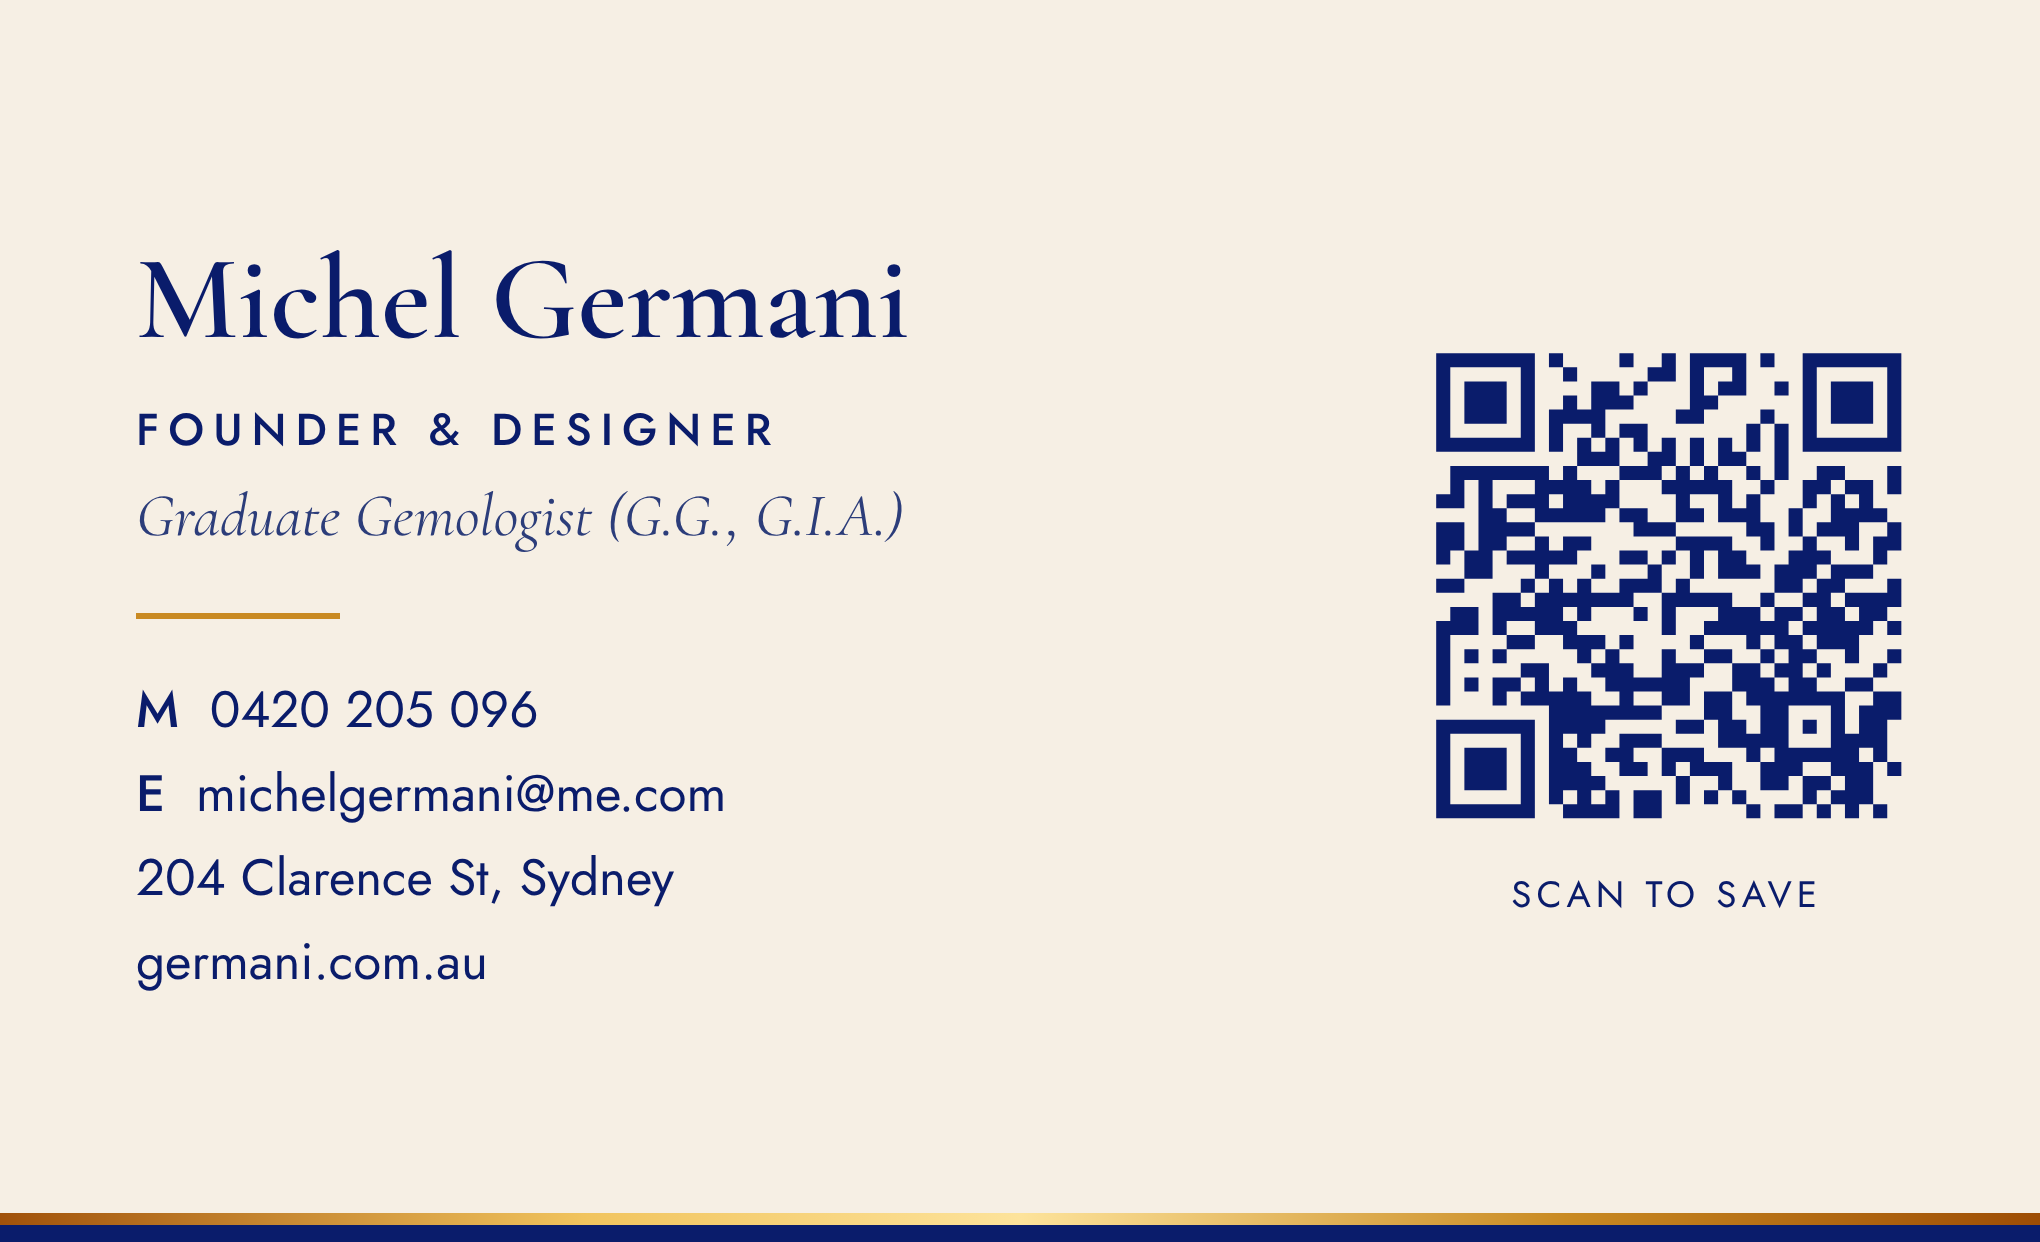
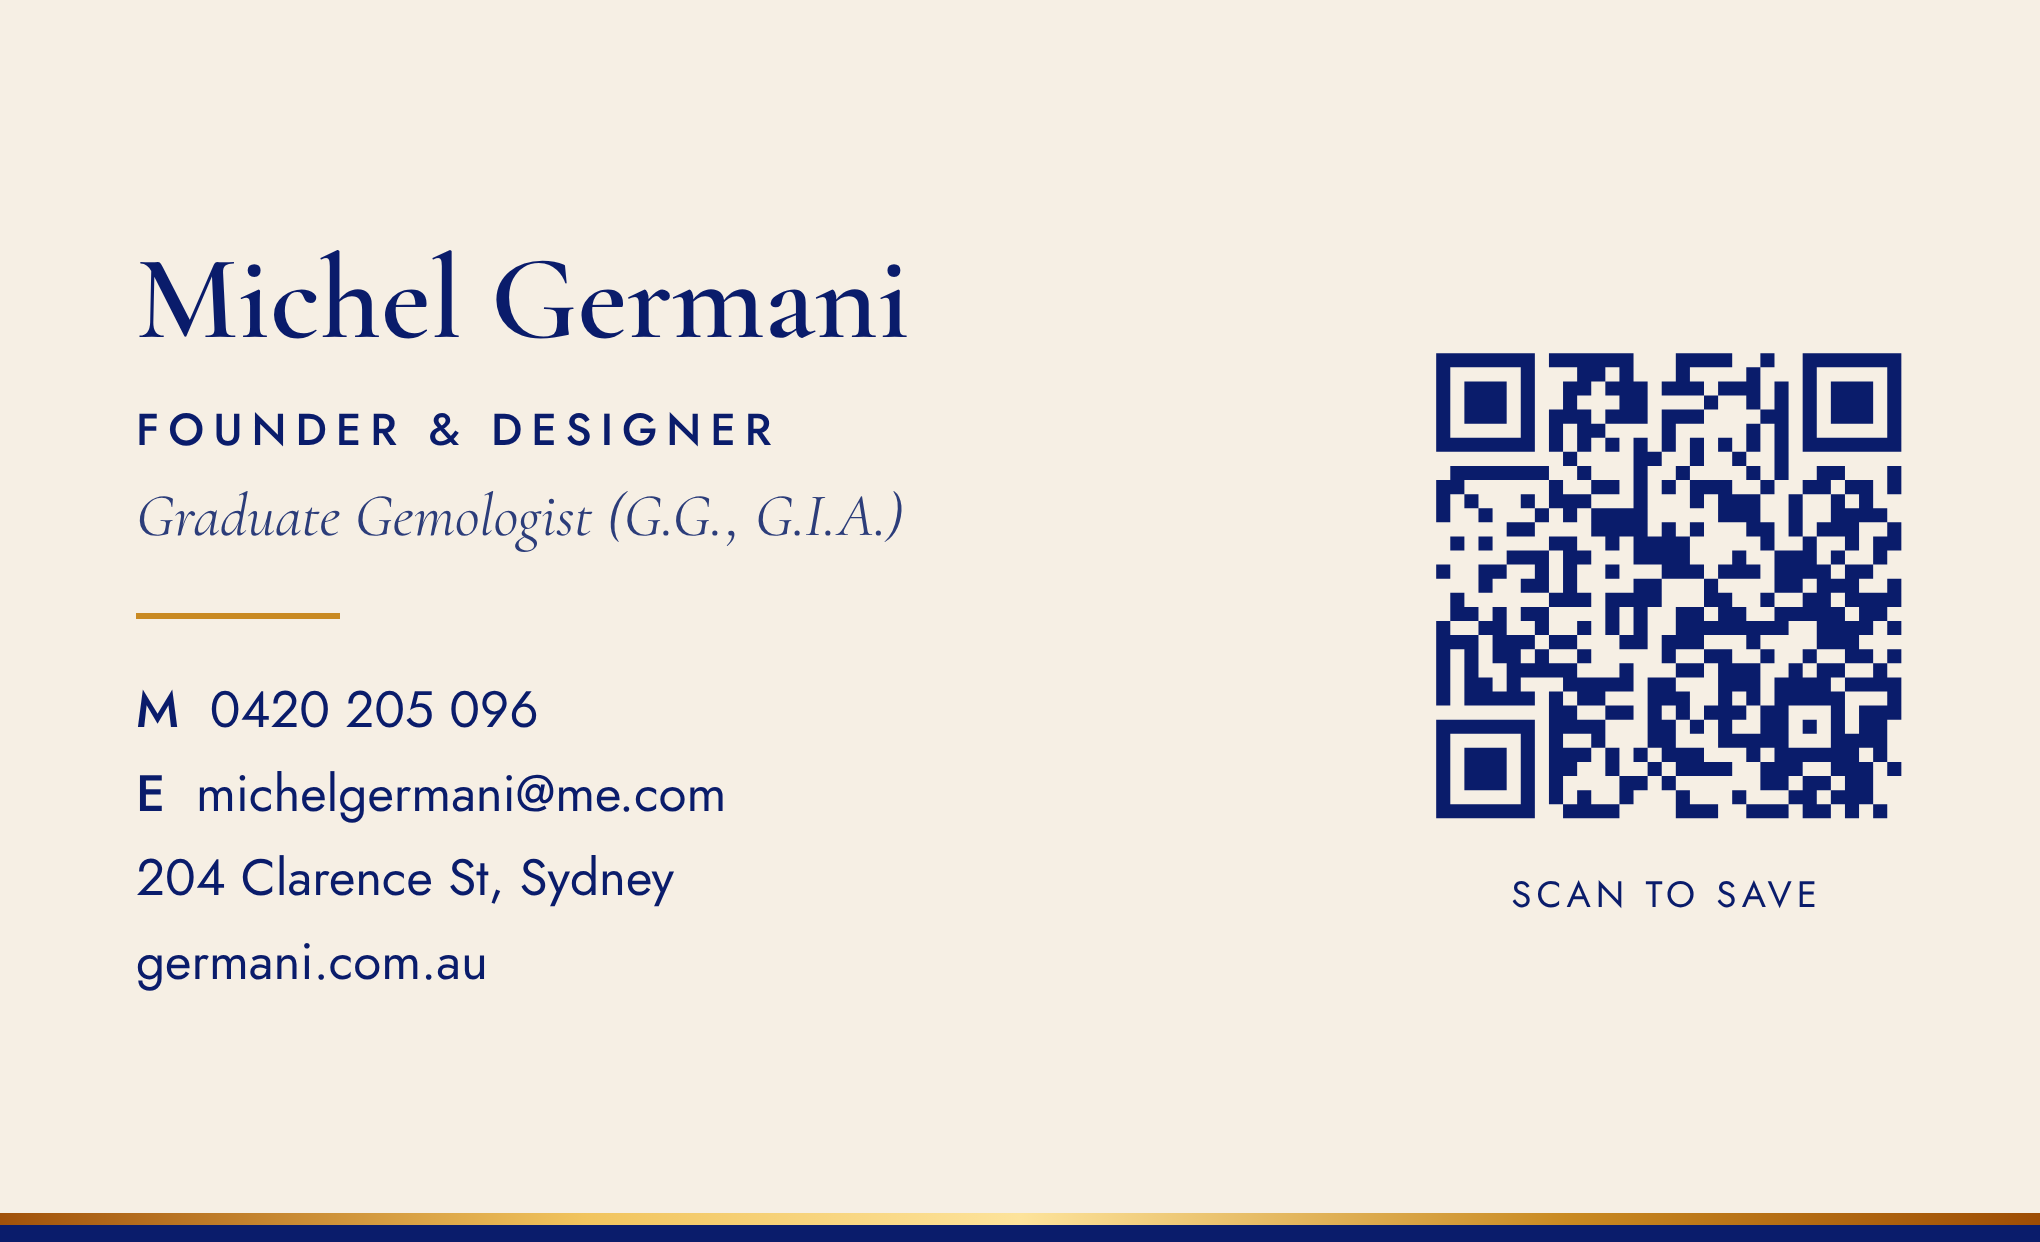
Move to Vercel: card and QR point to germani-jewellery.vercel.app, form opens email
The appointment form no longer relies on Netlify Forms; it opens the
visitor's email app with the request addressed to Michel.

Claude-Session: https://claude.ai/code/session_01YErHAkG1NViqXgVA9nc83o

Changed region(s): [[0.6794, 0.2754, 0.9265, 0.6731]]

diff --git a/michel.html b/michel.html
@@ -8,7 +8,7 @@
 <meta name="description" content="Michel Germani, Founder &amp; Designer, Germani Jewellery Academy. Save my contact details.">
 <meta property="og:title" content="Michel Germani | Germani Jewellery Academy">
 <meta property="og:description" content="Founder &amp; Designer, Germani Jewellery Academy. Tap to save my contact.">
-<meta property="og:image" content="https://germani-jewellery.netlify.app/cards/img/michel.jpg">
+<meta property="og:image" content="https://germani-jewellery.vercel.app/cards/img/michel.jpg">
 <meta name="theme-color" content="#0a1c6b">
 <link rel="icon" href="/favicon.svg" type="image/svg+xml">
 <link rel="preconnect" href="https://fonts.googleapis.com">
@@ -66,19 +66,19 @@ footer a{color:var(--navy)}
     <a class="btn btn-save" href="/michel.vcf" download="Michel-Germani.vcf"><svg class="i" viewBox="0 0 24 24" aria-hidden="true"><path d="M12 3v12m0 0-4-4m4 4 4-4"/><path d="M5 17v3h14v-3"/></svg> Save Contact</a>
     <button class="btn btn-share" id="share" type="button" hidden><svg class="i" viewBox="0 0 24 24" aria-hidden="true"><circle cx="6" cy="12" r="2.5"/><circle cx="18" cy="6" r="2.5"/><circle cx="18" cy="18" r="2.5"/><path d="m8.2 10.8 7.6-3.6M8.2 13.2l7.6 3.6"/></svg> Share this card</button>
   </div>
-  <div class="rows"><a class="row" href="tel:+61420205096"><svg class="i" viewBox="0 0 24 24" aria-hidden="true"><path d="M5 3h4l2 5-2.5 1.5a11 11 0 0 0 6 6L16 13l5 2v4a2 2 0 0 1-2 2A17 17 0 0 1 3 5a2 2 0 0 1 2-2z"/></svg><span><small>Mobile</small>0420 205 096</span></a><a class="row" href="mailto:michelgermani@me.com"><svg class="i" viewBox="0 0 24 24" aria-hidden="true"><rect x="3" y="5" width="18" height="14" rx="2"/><path d="m3 7 9 6 9-6"/></svg><span><small>Email</small>michelgermani@me.com</span></a><a class="row" href="https://germani-jewellery.netlify.app" target="_blank" rel="noopener"><svg class="i" viewBox="0 0 24 24" aria-hidden="true"><circle cx="12" cy="12" r="9"/><path d="M3 12h18M12 3a14 14 0 0 1 0 18M12 3a14 14 0 0 0 0 18"/></svg><span><small>Website</small>germani.com.au</span></a><a class="row" href="https://www.germanijewelleryacademy.com" target="_blank" rel="noopener"><svg class="i" viewBox="0 0 24 24" aria-hidden="true"><path d="M2 9l10-5 10 5-10 5z"/><path d="M6 11v5c3 2 9 2 12 0v-5"/></svg><span><small>Academy website</small>germanijewelleryacademy.com</span></a><a class="row" href="https://www.google.com/maps/search/?api=1&query=204+Clarence+St,+Sydney+NSW+Australia" target="_blank" rel="noopener"><svg class="i" viewBox="0 0 24 24" aria-hidden="true"><path d="M12 21s-7-6.2-7-11a7 7 0 0 1 14 0c0 4.8-7 11-7 11z"/><circle cx="12" cy="10" r="2.5"/></svg><span><small>Address</small>204 Clarence St, Sydney NSW</span></a><a class="row" href="https://www.instagram.com/germanijewellery/" target="_blank" rel="noopener"><svg class="i" viewBox="0 0 24 24" aria-hidden="true"><rect x="3" y="3" width="18" height="18" rx="5"/><circle cx="12" cy="12" r="4"/><circle cx="17.5" cy="6.5" r=".8"/></svg><span><small>Instagram</small>@germanijewellery</span></a></div>
+  <div class="rows"><a class="row" href="tel:+61420205096"><svg class="i" viewBox="0 0 24 24" aria-hidden="true"><path d="M5 3h4l2 5-2.5 1.5a11 11 0 0 0 6 6L16 13l5 2v4a2 2 0 0 1-2 2A17 17 0 0 1 3 5a2 2 0 0 1 2-2z"/></svg><span><small>Mobile</small>0420 205 096</span></a><a class="row" href="mailto:michelgermani@me.com"><svg class="i" viewBox="0 0 24 24" aria-hidden="true"><rect x="3" y="5" width="18" height="14" rx="2"/><path d="m3 7 9 6 9-6"/></svg><span><small>Email</small>michelgermani@me.com</span></a><a class="row" href="https://germani-jewellery.vercel.app" target="_blank" rel="noopener"><svg class="i" viewBox="0 0 24 24" aria-hidden="true"><circle cx="12" cy="12" r="9"/><path d="M3 12h18M12 3a14 14 0 0 1 0 18M12 3a14 14 0 0 0 0 18"/></svg><span><small>Website</small>germani.com.au</span></a><a class="row" href="https://www.germanijewelleryacademy.com" target="_blank" rel="noopener"><svg class="i" viewBox="0 0 24 24" aria-hidden="true"><path d="M2 9l10-5 10 5-10 5z"/><path d="M6 11v5c3 2 9 2 12 0v-5"/></svg><span><small>Academy website</small>germanijewelleryacademy.com</span></a><a class="row" href="https://www.google.com/maps/search/?api=1&query=204+Clarence+St,+Sydney+NSW+Australia" target="_blank" rel="noopener"><svg class="i" viewBox="0 0 24 24" aria-hidden="true"><path d="M12 21s-7-6.2-7-11a7 7 0 0 1 14 0c0 4.8-7 11-7 11z"/><circle cx="12" cy="10" r="2.5"/></svg><span><small>Address</small>204 Clarence St, Sydney NSW</span></a><a class="row" href="https://www.instagram.com/germanijewellery/" target="_blank" rel="noopener"><svg class="i" viewBox="0 0 24 24" aria-hidden="true"><rect x="3" y="3" width="18" height="18" rx="5"/><circle cx="12" cy="12" r="4"/><circle cx="17.5" cy="6.5" r=".8"/></svg><span><small>Instagram</small>@germanijewellery</span></a></div>
   <section class="about">
     <h2>About Michel</h2>
     <p>Michel Germani is an Australian jewellery designer and the founder of Germani Jewellery, one of Sydney&#x27;s most recognised luxury jewellery houses.</p><p>For more than four decades he has dedicated his life to fine jewellery: from his studies at the Gemological Institute of America in Los Angeles, to professional experience in Antwerp, Switzerland and Saudi Arabia, and the establishment of Germani Jewellery in Australia in 1985.</p><p>His work spans custom engagement rings, important diamond pieces and unique handcrafted designs. Today he also shares his experience through the Germani Jewellery Academy.</p>
   </section>
-  <footer>Germani Jewellery &middot; Sydney<br><a href="https://germani-jewellery.netlify.app">Visit the website</a></footer>
+  <footer>Germani Jewellery &middot; Sydney<br><a href="https://germani-jewellery.vercel.app">Visit the website</a></footer>
 </main>
 <script>
 (function () {
   var b = document.getElementById('share');
   if (!navigator.share) return;
   b.hidden = false;
-  b.onclick = function () { navigator.share({ title: "Michel Germani | Germani Jewellery Academy", url: "https://germani-jewellery.netlify.app/michel" }).catch(function () {}); };
+  b.onclick = function () { navigator.share({ title: "Michel Germani | Germani Jewellery Academy", url: "https://germani-jewellery.vercel.app/michel" }).catch(function () {}); };
 })();
 </script>
 </body>

diff --git a/cards/print/michel.html b/cards/print/michel.html
@@ -37,7 +37,7 @@ body { -webkit-print-color-adjust: exact; print-color-adjust: exact; background:
     <div class="line"></div>
     <div class="d"><b>M</b>&nbsp; 0420 205 096<br><b>E</b>&nbsp; michelgermani@me.com<br>204 Clarence St, Sydney<br>germani.com.au</div>
   </div>
-  <div class="qr"><svg xmlns="http://www.w3.org/2000/svg" viewBox="0 0 370 370" class="segno"><path transform="scale(10)" class="qrline" stroke="#0a1c6b" d="M2 2.5h7m1 0h1m4 0h1m2 0h1m1 0h4m1 0h1m2 0h7m-33 1h1m5 0h1m2 0h1m5 0h2m1 0h1m2 0h1m4 0h1m5 0h1m-33 1h1m1 0h3m1 0h1m4 0h2m1 0h1m3 0h1m1 0h2m2 0h1m1 0h1m1 0h3m1 0h1m-33 1h1m1 0h3m1 0h1m2 0h1m1 0h3m4 0h2m6 0h1m1 0h3m1 0h1m-33 1h1m1 0h3m1 0h1m1 0h4m5 0h2m4 0h1m2 0h1m1 0h3m1 0h1m-33 1h1m5 0h1m1 0h1m2 0h1m1 0h2m7 0h1m1 0h1m1 0h1m5 0h1m-33 1h7m1 0h1m1 0h1m1 0h1m1 0h1m1 0h1m1 0h1m1 0h1m1 0h1m1 0h1m1 0h7m-23 1h3m2 0h2m1 0h1m1 0h2m2 0h1m-24 1h7m1 0h1m3 0h3m1 0h1m1 0h1m2 0h1m1 0h1m2 0h2m3 0h1m-32 1h1m1 0h1m3 0h4m1 0h1m3 0h5m2 0h1m2 0h2m1 0h2m1 0h1m-33 1h2m1 0h1m1 0h3m1 0h4m4 0h1m2 0h1m1 0h1m3 0h1m1 0h1m1 0h1m-28 1h2m2 0h5m1 0h2m2 0h2m1 0h3m2 0h1m2 0h4m-32 1h2m1 0h4m7 0h3m5 0h2m1 0h1m1 0h3m2 0h1m-33 1h2m1 0h2m2 0h1m1 0h2m6 0h4m2 0h1m2 0h1m2 0h1m1 0h2m-33 1h1m1 0h2m1 0h5m3 0h2m1 0h1m1 0h1m1 0h2m3 0h3m3 0h1m-30 1h2m3 0h1m3 0h1m3 0h1m2 0h1m1 0h3m1 0h3m1 0h3m-31 1h2m4 0h1m1 0h1m1 0h1m2 0h3m1 0h1m6 0h2m1 0h2m3 0h1m-29 1h2m1 0h7m2 0h5m2 0h1m2 0h2m1 0h4m-32 1h2m1 0h5m1 0h1m3 0h1m1 0h1m3 0h3m1 0h2m1 0h2m1 0h2m-32 1h3m1 0h1m2 0h3m6 0h1m2 0h6m1 0h5m1 0h1m-33 1h1m4 0h2m2 0h3m1 0h1m4 0h1m3 0h1m1 0h2m1 0h3m-30 1h1m1 0h1m1 0h1m5 0h1m1 0h1m3 0h1m2 0h2m2 0h1m1 0h2m2 0h1m2 0h1m-33 1h1m5 0h2m3 0h3m2 0h3m2 0h2m1 0h2m1 0h1m3 0h1m-32 1h1m1 0h1m1 0h2m1 0h1m1 0h1m2 0h6m3 0h3m1 0h2m2 0h2m-31 1h1m3 0h1m1 0h5m2 0h1m2 0h2m1 0h2m1 0h7m2 0h2m-25 1h8m3 0h2m2 0h2m3 0h1m1 0h3m-33 1h7m1 0h4m5 0h2m1 0h2m1 0h2m1 0h1m1 0h1m1 0h2m-32 1h1m5 0h1m1 0h1m1 0h1m2 0h3m4 0h5m3 0h4m-32 1h1m1 0h3m1 0h1m1 0h2m2 0h2m2 0h3m3 0h1m1 0h6m1 0h1m-32 1h1m1 0h3m1 0h1m1 0h3m2 0h2m1 0h1m1 0h3m2 0h3m2 0h3m1 0h1m-33 1h1m1 0h3m1 0h1m1 0h4m5 0h1m2 0h1m2 0h2m1 0h2m1 0h2m-31 1h1m5 0h1m1 0h1m1 0h1m1 0h1m1 0h2m1 0h1m1 0h1m1 0h1m4 0h1m1 0h3m-31 1h7m2 0h4m1 0h2m6 0h1m1 0h2m1 0h1m1 0h1m1 0h1"/></svg>
+  <div class="qr"><svg xmlns="http://www.w3.org/2000/svg" viewBox="0 0 370 370" class="segno"><path transform="scale(10)" class="qrline" stroke="#0a1c6b" d="M2 2.5h7m1 0h6m3 0h4m2 0h1m2 0h7m-33 1h1m5 0h1m3 0h2m1 0h1m3 0h1m4 0h1m3 0h1m5 0h1m-33 1h1m1 0h3m1 0h1m2 0h2m1 0h3m1 0h3m1 0h3m1 0h1m1 0h1m1 0h3m1 0h1m-33 1h1m1 0h3m1 0h1m2 0h1m3 0h2m4 0h1m2 0h1m1 0h1m1 0h1m1 0h3m1 0h1m-33 1h1m1 0h3m1 0h1m1 0h3m1 0h3m1 0h3m4 0h2m1 0h1m1 0h3m1 0h1m-33 1h1m5 0h1m1 0h1m1 0h2m4 0h1m5 0h1m1 0h1m1 0h1m5 0h1m-33 1h7m1 0h1m1 0h1m1 0h1m1 0h1m1 0h1m1 0h1m1 0h1m1 0h1m1 0h1m1 0h7m-24 1h1m4 0h2m2 0h1m2 0h1m2 0h1m-24 1h7m2 0h1m3 0h1m2 0h1m4 0h1m1 0h1m2 0h2m3 0h1m-33 1h2m6 0h1m2 0h2m1 0h1m1 0h1m1 0h3m2 0h1m2 0h2m1 0h2m1 0h1m-33 1h1m1 0h1m3 0h1m1 0h3m3 0h1m3 0h1m1 0h3m2 0h1m2 0h1m1 0h1m-31 1h1m2 0h1m3 0h1m1 0h1m1 0h4m5 0h3m2 0h1m2 0h4m-27 1h2m4 0h4m1 0h1m1 0h1m3 0h2m1 0h1m1 0h3m2 0h1m-32 1h1m1 0h1m4 0h2m2 0h1m1 0h4m5 0h1m2 0h1m2 0h1m1 0h2m-28 1h3m1 0h2m3 0h4m3 0h1m2 0h3m1 0h1m2 0h1m-32 1h1m2 0h2m2 0h1m1 0h1m2 0h1m3 0h3m1 0h3m1 0h4m1 0h2m-28 1h1m2 0h2m1 0h1m4 0h2m3 0h1m4 0h2m1 0h3m2 0h1m-32 1h1m6 0h3m1 0h4m3 0h2m2 0h1m2 0h2m1 0h4m-32 1h2m1 0h1m1 0h2m4 0h1m1 0h1m2 0h2m1 0h2m2 0h5m1 0h2m-32 1h1m2 0h2m2 0h1m2 0h1m1 0h1m1 0h1m2 0h8m2 0h4m1 0h1m-33 1h3m1 0h3m1 0h2m3 0h2m1 0h3m3 0h1m4 0h3m-30 1h1m1 0h1m1 0h2m1 0h1m2 0h1m5 0h1m2 0h2m2 0h1m2 0h1m2 0h2m1 0h1m-33 1h1m1 0h1m2 0h5m3 0h1m3 0h2m1 0h3m2 0h1m1 0h2m2 0h1m-32 1h1m1 0h2m1 0h1m3 0h5m1 0h2m3 0h3m1 0h4m1 0h4m-33 1h1m1 0h5m1 0h1m1 0h2m3 0h3m2 0h1m1 0h1m1 0h5m3 0h1m-25 1h2m2 0h2m1 0h1m1 0h1m1 0h3m1 0h2m3 0h1m1 0h3m-33 1h7m1 0h4m3 0h2m1 0h1m1 0h1m2 0h2m1 0h1m1 0h1m1 0h2m-32 1h1m5 0h1m1 0h1m2 0h1m3 0h2m3 0h5m3 0h4m-32 1h1m1 0h3m1 0h1m1 0h3m1 0h1m1 0h1m1 0h3m3 0h1m1 0h6m1 0h1m-32 1h1m1 0h3m1 0h1m1 0h2m2 0h1m2 0h1m1 0h4m2 0h3m2 0h3m1 0h1m-33 1h1m1 0h3m1 0h1m1 0h1m4 0h2m1 0h1m6 0h2m1 0h2m1 0h2m-31 1h1m5 0h1m1 0h1m1 0h1m2 0h1m3 0h1m3 0h1m3 0h2m1 0h3m-31 1h7m2 0h4m4 0h3m2 0h3m1 0h2m1 0h1m1 0h1"/></svg>
 <span>Scan to save</span></div>
 </div><div class="rule"></div></section>
 </body></html>

diff --git a/assets/js/site.js b/assets/js/site.js
@@ -142,7 +142,7 @@
     });
   }
 
-  /* Contact: prefill piece + Netlify form submit */
+  /* Contact: prefill piece + open the visitor's email app with the request */
   var form = document.querySelector(".form");
   if (form) {
     var piece = new URLSearchParams(location.search).get("piece");
@@ -153,21 +153,20 @@
       if (interest && /academy/i.test(piece)) interest.value = "Germani Jewellery Academy";
     }
     form.addEventListener("submit", function (e) {
-      if (!window.fetch) return;
       e.preventDefault();
-      var data = new URLSearchParams(new FormData(form)).toString();
-      var btn = form.querySelector("button[type=submit]");
-      btn.disabled = true;
-      fetch("/", { method: "POST", headers: { "Content-Type": "application/x-www-form-urlencoded" }, body: data })
-        .then(function (r) {
-          if (!r.ok) throw new Error(r.status);
-          form.hidden = true;
-          document.querySelector(".form-success").classList.add("is-visible");
-        })
-        .catch(function () {
-          btn.disabled = false;
-          alert("Sorry, your request could not be sent. Please call or email us directly.");
-        });
+      var v = function (n) { var f = form.querySelector("[name=" + n + "]"); return f ? f.value.trim() : ""; };
+      var lines = [
+        "Name: " + v("name"),
+        "Phone: " + v("phone"),
+        "Email: " + v("email"),
+        "Interested in: " + v("interest")
+      ];
+      if (v("piece")) lines.push("Piece: " + v("piece"));
+      if (v("message")) lines.push("", v("message"));
+      var subject = "Appointment request: " + v("interest") + " (" + v("name") + ")";
+      location.href = "mailto:" + form.dataset.email + "?subject=" + encodeURIComponent(subject) + "&body=" + encodeURIComponent(lines.join("\n"));
+      form.hidden = true;
+      document.querySelector(".form-success").classList.add("is-visible");
     });
   }
 

diff --git a/contact.html b/contact.html
@@ -83,7 +83,7 @@
       <p>Tell us when you would like to come in, or ask about a piece you have seen online, and Michel will reply personally.</p>
     </div>
     <div class="reveal">
-      <form class="form" name="appointment" method="POST" data-netlify="true" netlify-honeypot="company" action="/contact.html?sent=1">
+      <form class="form" name="appointment" method="POST" action="mailto:michelgermani@me.com" data-email="michelgermani@me.com">
         <input type="hidden" name="form-name" value="appointment">
         <p class="sr-only"><label>Leave this empty <input name="company"></label></p>
         <div class="field"><label for="f-name">Name</label><input id="f-name" name="name" autocomplete="name" required></div>
@@ -103,11 +103,11 @@
         <div class="field"><label for="f-piece">Piece (optional)</label><input id="f-piece" name="piece"></div>
         <div class="field field--full"><label for="f-message">Message</label><textarea id="f-message" name="message"></textarea></div>
         <button class="btn" type="submit">Send request</button>
-        <p class="form-note">Michel will reply personally to arrange a time.</p>
+        <p class="form-note">Your email app will open with your request ready to send. Michel will reply personally to arrange a time.</p>
       </form>
       <div class="form-success" role="status">
         <h3>Thank you</h3>
-        <p style="margin:0">Your request has been received. Michel will be in touch shortly to arrange your visit.</p>
+        <p style="margin:0">Your email app has opened with your request. Just press Send, and Michel will be in touch shortly to arrange your visit. If nothing opened, email <a href="mailto:michelgermani@me.com">michelgermani@me.com</a> or call 0420 205 096.</p>
       </div>
     </div>
   </div>

diff --git a/README.md b/README.md
@@ -49,7 +49,7 @@ To preview locally: `npx http-server .` and open http://localhost:8080.
 
 ## Michel Germani's business card
 
-- **Digital card:** `https://germani-jewellery.netlify.app/michel` (`michel.html`, kept out of search engines). "Save Contact" downloads `michel.vcf` with his photo.
+- **Digital card:** `https://germani-jewellery.vercel.app/michel` (`michel.html`, kept out of search engines). "Save Contact" downloads `michel.vcf` with his photo.
 - **QR code:** `cards/qr/michel.png` and `cards/qr/michel.svg` (vector, for printers). It opens the digital card.
 - **Printed card:** `cards/print/michel-business-card.pdf`, 90 × 55 mm with 3 mm bleed (page size 96 × 61 mm), front and back. Previews: `cards/print/michel-card-front.png`, `michel-card-back.png`.
 
